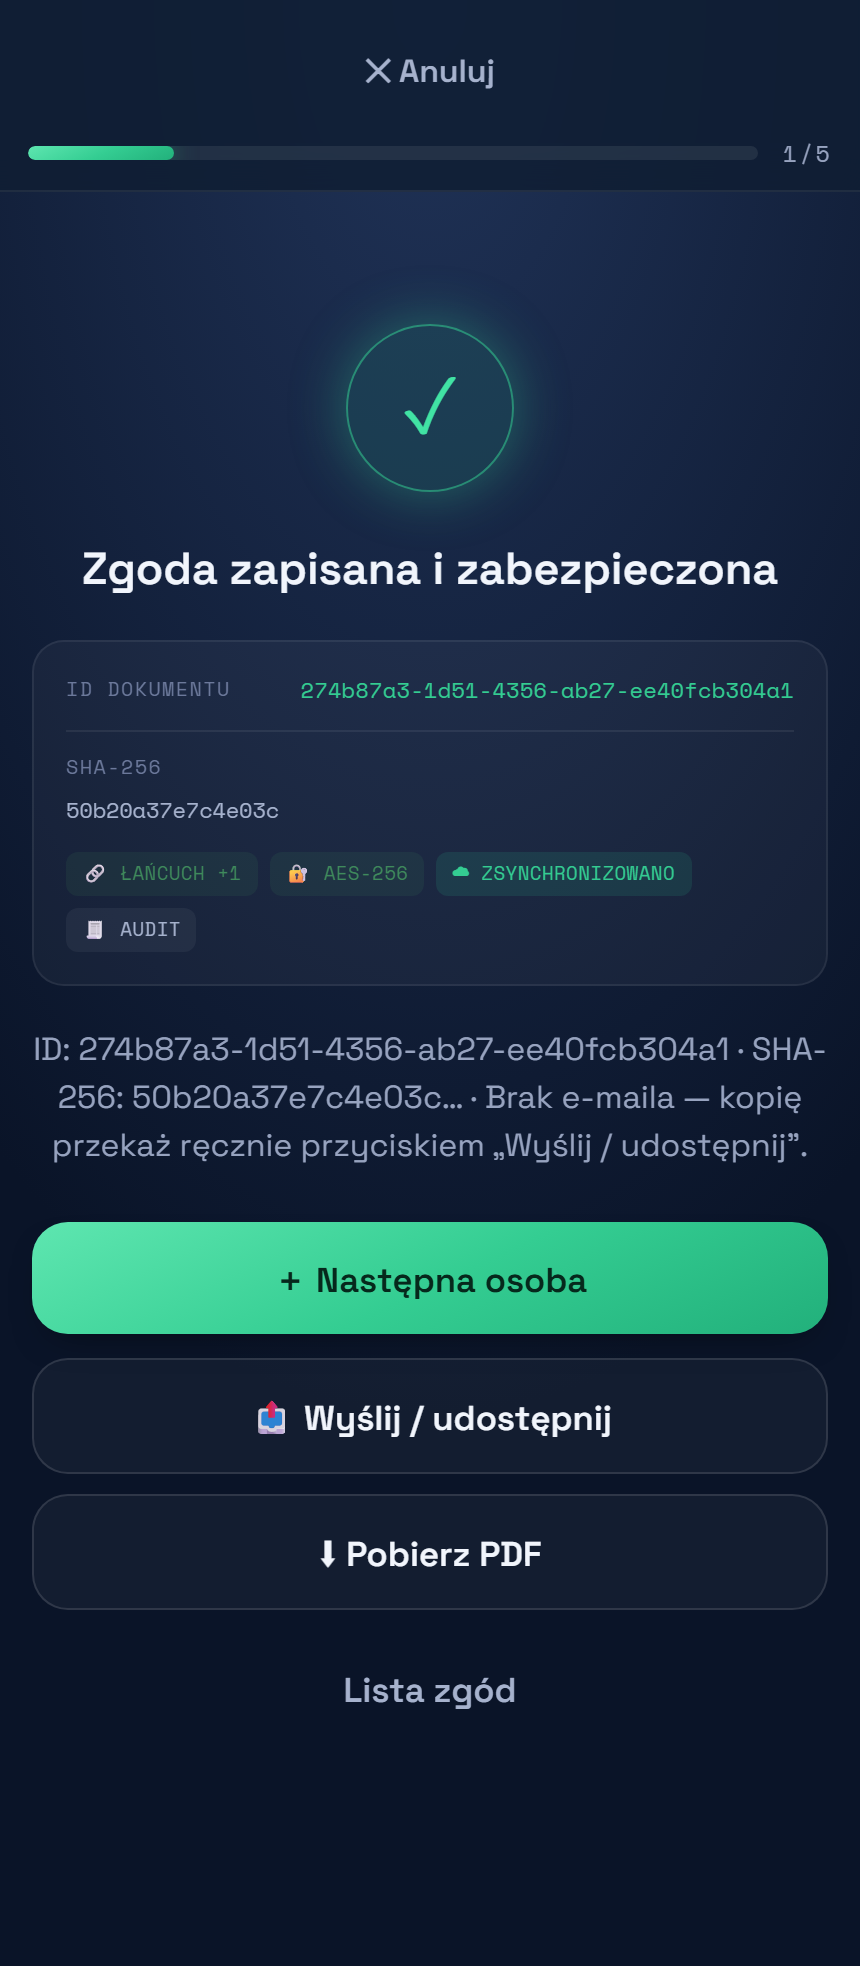
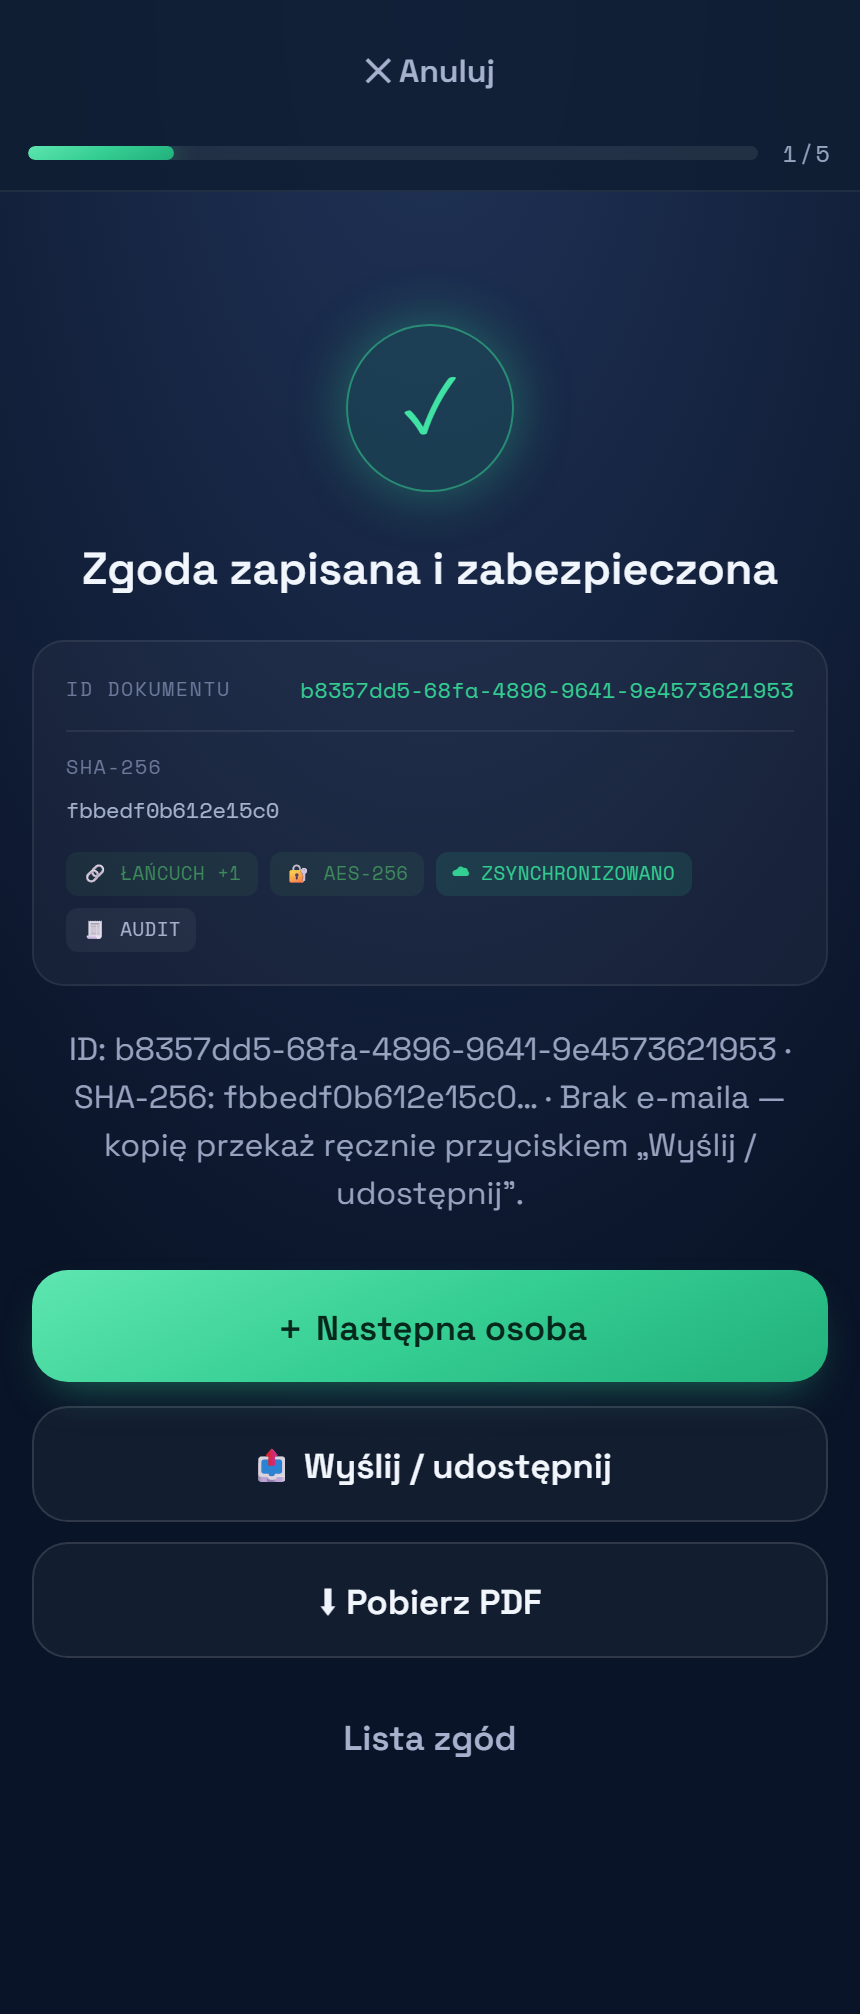
Ekran główny: loga jak przy logowaniu (Offhand lewy róg, SignOff prawy), status w drugim rzędzie
- Górny pasek pulpitu: rząd z logami (space-between) + rząd ze statusem/ikonami pod spodem.
- Odświeżony zrzut pulpitu w przewodniku.

diff --git a/style.css b/style.css
@@ -108,8 +108,8 @@ a { color: var(--accent); }
 .wordmark .by { font-family: var(--mono); font-size: .62rem; font-weight: 400; letter-spacing: .14em; color: var(--muted); margin-top: 3px; }
 .wordmark.sm .nm { font-size: 1.12rem; }
 .wordmark.sm .by { font-size: .48rem; letter-spacing: .2em; }
-.topbar-brand { display: flex; align-items: center; gap: 9px; }
-.brand-mark-lead { height: 24px; width: auto; }
+.topbar-brand { display: flex; align-items: center; justify-content: space-between; gap: 12px; }
+.brand-mark-lead { height: 30px; width: auto; flex: 0 0 auto; }
 .brand-mark-corner { height: 26px; width: auto; flex: 0 0 auto; opacity: .92; }
 .lock-mark { display: flex; justify-content: center; margin: 24px 0 8px; }
 .lock-mark img { height: 74px; width: auto; opacity: .92; }
@@ -190,7 +190,7 @@ label { font-weight: 500; font-size: .9rem; display: block; margin: 12px 0 0; co
 
 /* ---------- topbar ---------- */
 .topbar {
-  display: flex; align-items: center; justify-content: space-between;
+  display: flex; flex-direction: column; align-items: stretch; gap: 10px; justify-content: flex-start;
   background: rgba(15,29,51,.85); -webkit-backdrop-filter: blur(10px); backdrop-filter: blur(10px);
   border-bottom: 1px solid var(--line);
   /* pełne tło, ale treść wyrównana do kolumny 760px (jak .container) na szerokich ekranach */
@@ -467,7 +467,7 @@ details.adv summary b { color: var(--ink-2); }
 @media (max-width: 560px) {
   .container { padding: 16px 16px 60px; }
   .topbar { flex-direction: column; align-items: stretch; gap: 8px; padding: 10px 14px; }
-  .topbar-brand { justify-content: flex-start; }
+  .topbar-brand { justify-content: space-between; }
   .topbar-right { width: 100%; justify-content: space-between; flex-wrap: wrap; gap: 7px; }
   .topbar-right .badge { flex: 0 1 auto; }
   .home-head .btn.big { width: 100%; }

diff --git a/sw.js b/sw.js
@@ -1,7 +1,7 @@
 /* SignOff service worker — pełny offline + bezpieczna automatyczna aktualizacja.
    Nowa wersja pobiera się w tle (gdy online), ale aktywuje się dopiero gdy użytkownik
    dotknie „Odśwież" albo przy następnym otwarciu aplikacji — nigdy w trakcie zgody. */
-const CACHE = "signoff-v49";
+const CACHE = "signoff-v50";
 const ASSETS = [
   "./", "index.html", "style.css", "app.js", "manifest.json",
   "icons/icon-192.png", "icons/icon-512.png", "icons/offhand-logo.svg", "icons/offhand-mark-cream.png",